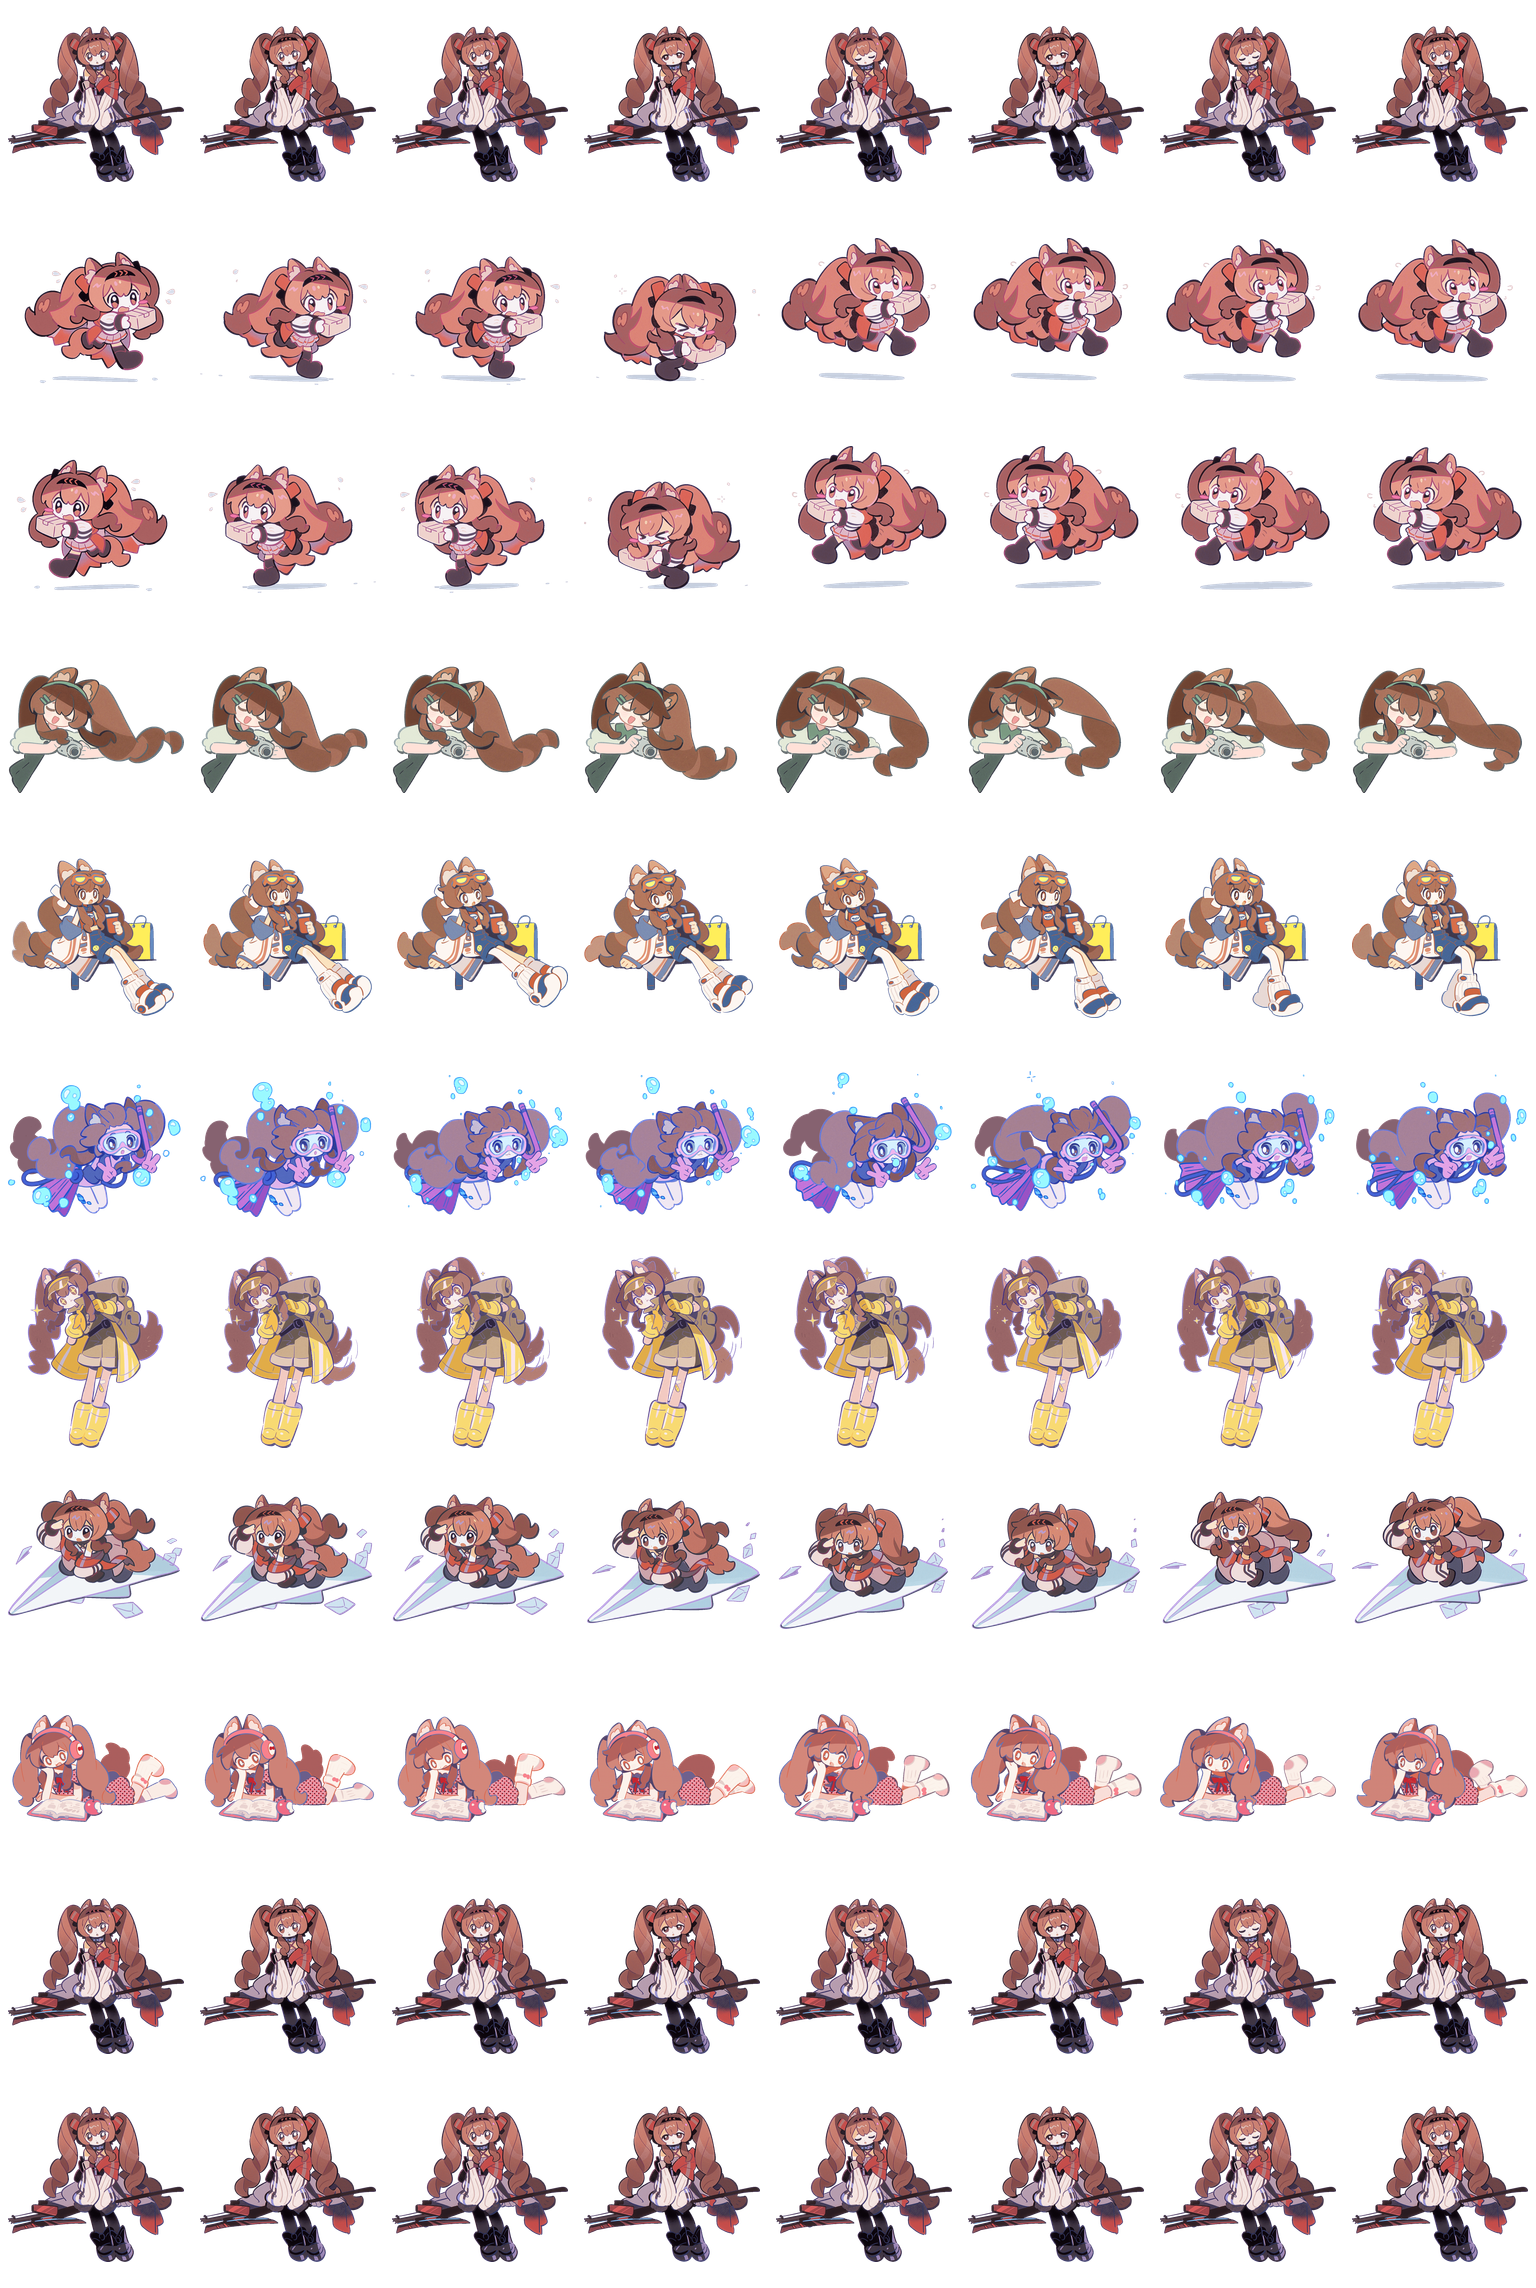
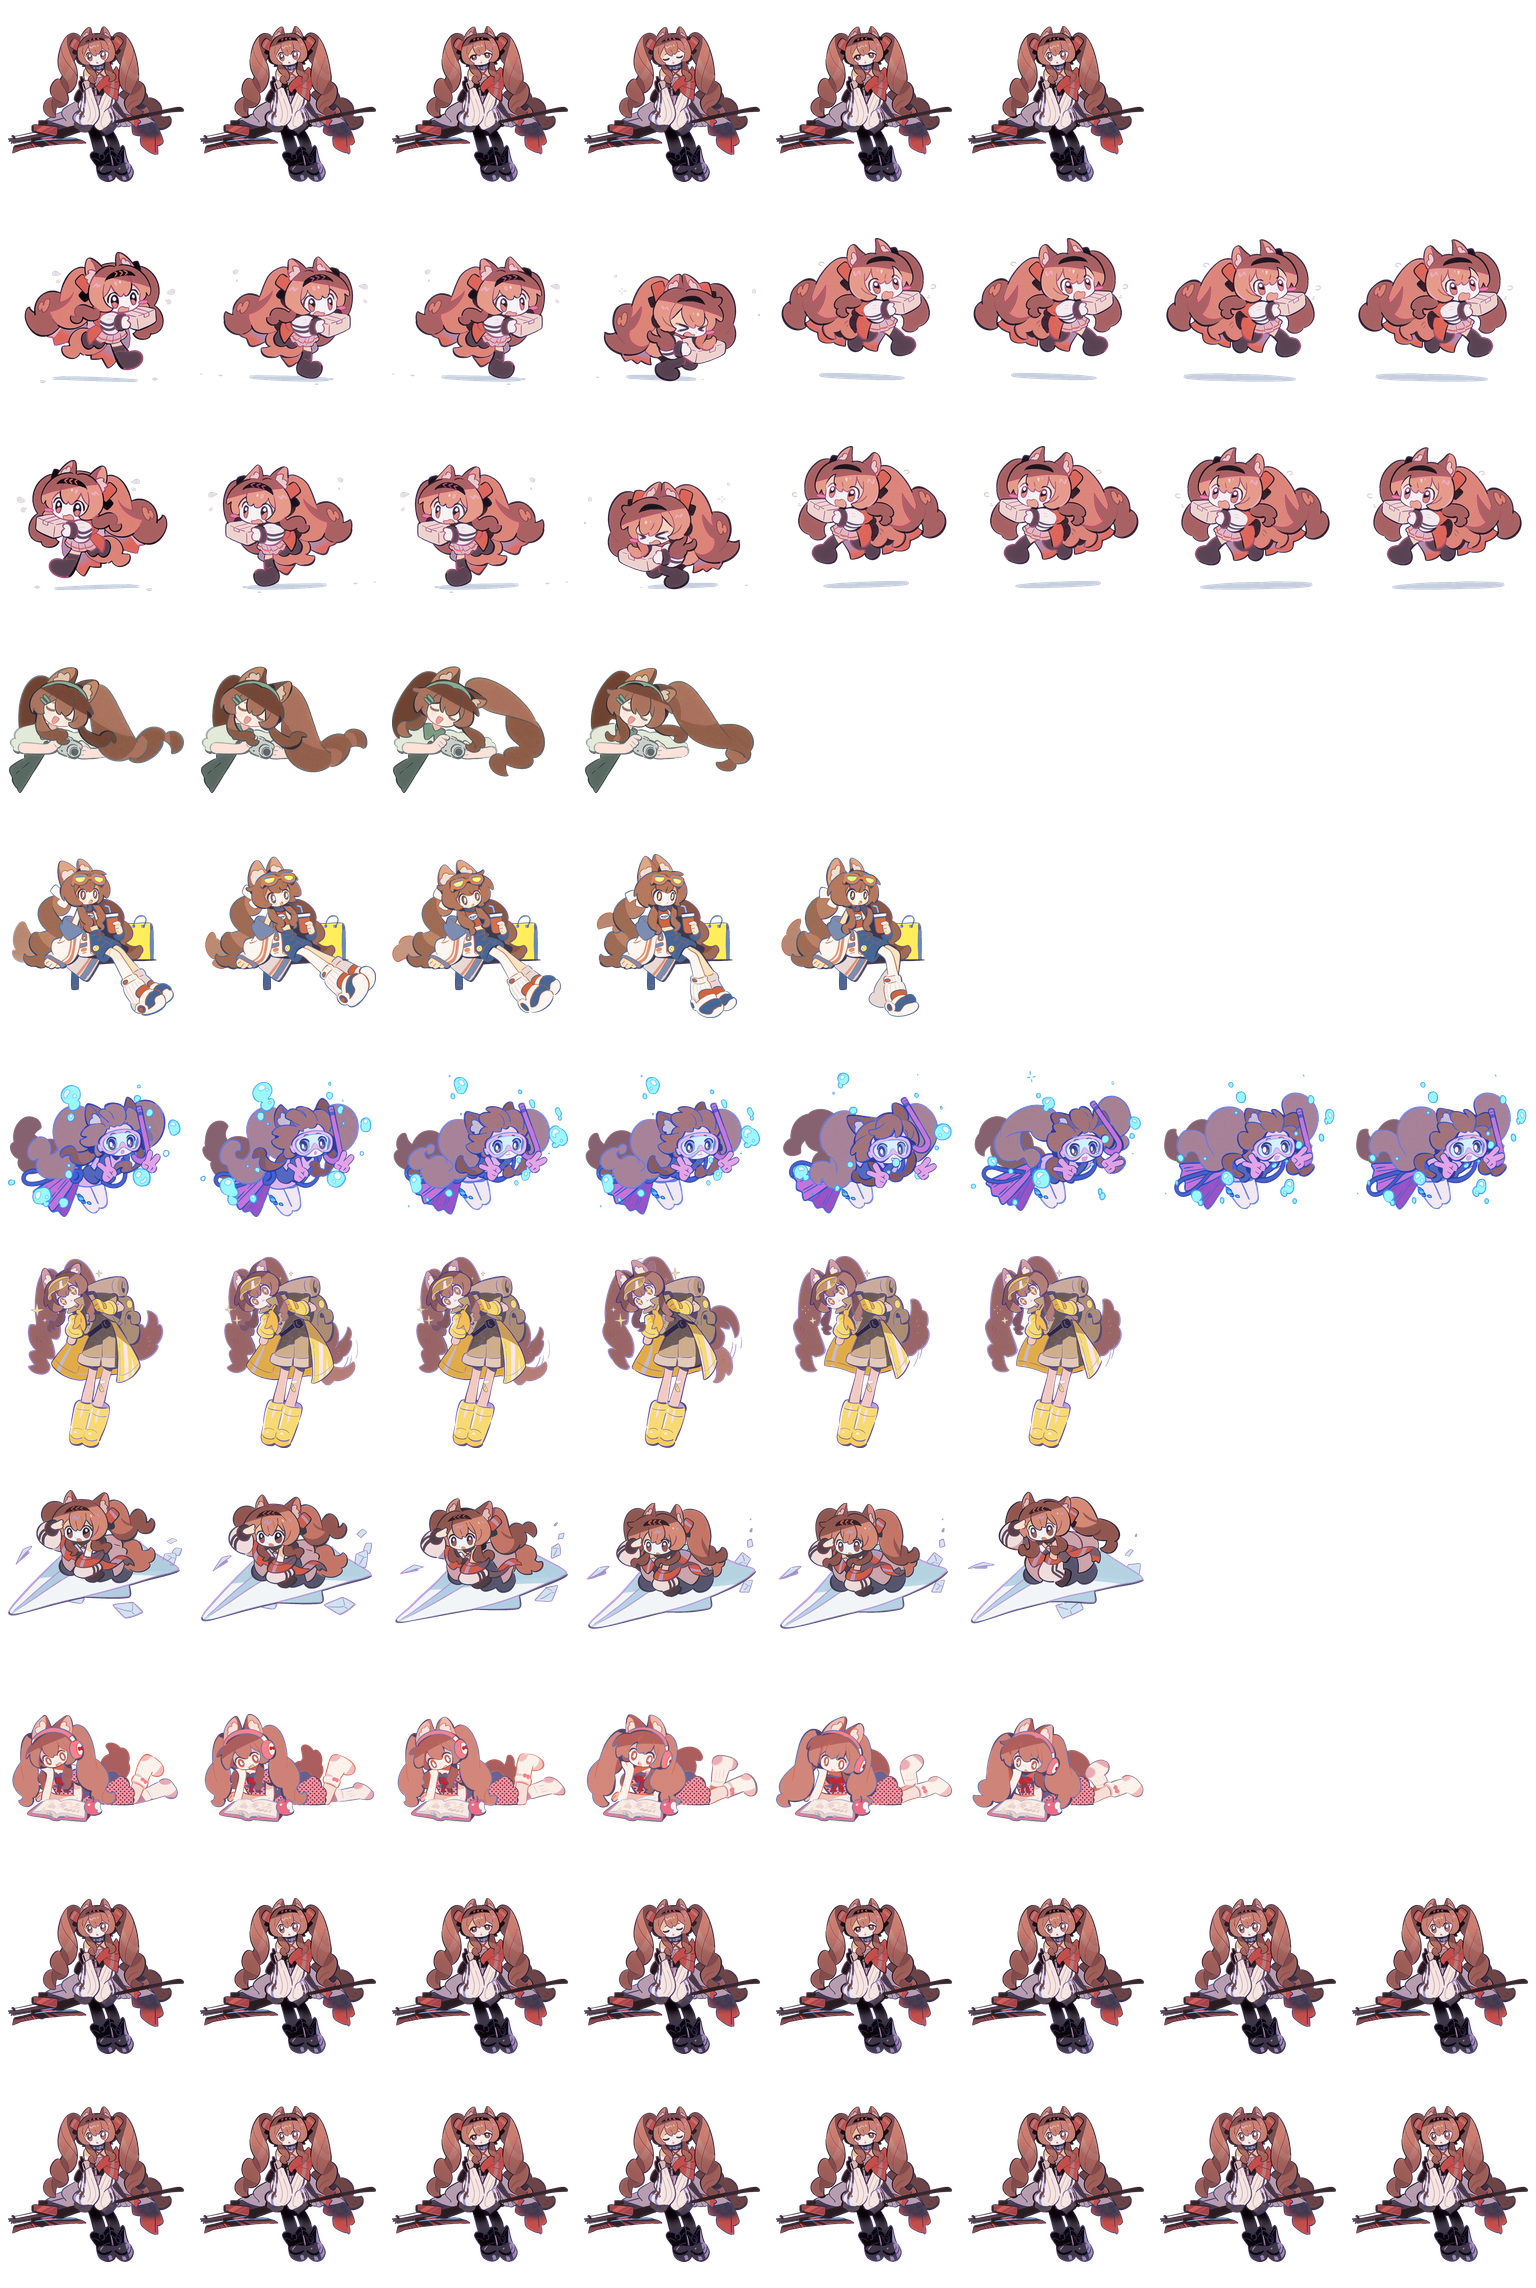
修复图集帧数：按状态规范帧数采样，多余格子保持透明
构建脚本原先把每行都填 8 帧，超出各状态规范帧数
（待机 6、左右移动 8、挥手 4、跳跃 5、失败 8、等待/工作/检查 6）
的格子被校验器判为「未用但非透明」，且频繁切换状态时出现空帧。
改为按规范帧数采样，多出的格子保持透明。README 同步更新采样说明。

diff --git a/README.md b/README.md
@@ -39,7 +39,7 @@ node build.mjs     # 读取 素材/ 下的 GIF → 生成 output/mypet/spriteshe
 
 ## 已知限制（实测确认）
 
-- **每个动画最多 8 帧**（图集 8 列）。高帧 GIF 会被构建脚本自动均匀采样到 8 帧，不会报错。
+- **每个动画最多 8 帧**（图集 8 列）。构建脚本按各状态规范帧数采样：待机 6、左右移动 8、挥手 4、跳跃 5、失败 8、等待/工作/检查 6，每行多出的格子保持透明，校验器不会报「未用但非透明」。
 - **持续状态只播放一次动画后回落待机**（工作中 / 检查中 / 等待确认）。这是 Codex 引擎对自定义桌宠的固定行为，`pet.json` 无法配置循环——引擎内部有 `animations.loop` 字段但只对内置桌宠生效，加进自定义 pet.json 会导致桌宠无法加载。
 
 ## 项目结构
